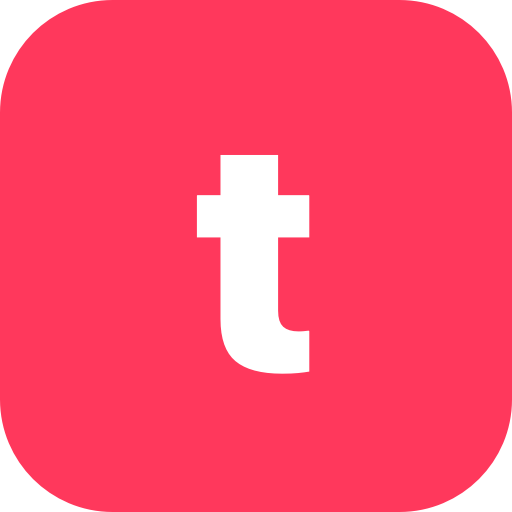
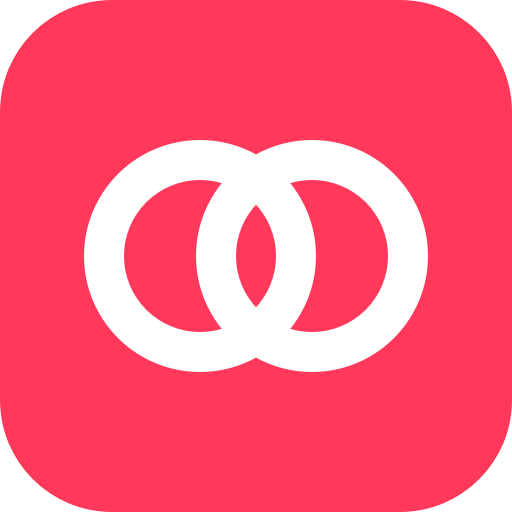
アプリ名を「おあいこ」に変更し、ロゴを追加
- ロゴ: Rausch の角丸四角に重なり合う2つの白い輪 (お互いさま・貸し借りなし)
- favicon、PWA アイコン (192/512/maskable/apple-touch) を作り直し、画面の見出しに Logo コンポーネント
- タイトル・マニフェスト・文書の名前を変更。Service Worker のキャッシュ名を更新して旧アイコンを破棄

Changed region(s): [[0.1562, 0.25, 0.8438, 0.75]]

diff --git a/src/pages/TripPage.tsx b/src/pages/TripPage.tsx
@@ -12,6 +12,7 @@ import { askName } from '../lib/names'
 import { touchRecent } from '../lib/recent'
 import { getStore, isFirebaseConfigured, type TripStore } from '../store'
 import type { Expense, TripData } from '../types'
+import { Logo } from '../components/Logo'
 
 const COLLAPSED_KEY = 'tiede:sidebar-collapsed'
 const loadCollapsed = () => {
@@ -132,7 +133,7 @@ export function TripPage({ tripId }: { tripId: string }) {
   useEffect(() => {
     if (data) {
       touchRecent(tripId, data.trip.name)
-      document.title = `${data.trip.name} - tiede`
+      document.title = `${data.trip.name} - おあいこ`
     }
   }, [tripId, data])
 
@@ -153,7 +154,7 @@ export function TripPage({ tripId }: { tripId: string }) {
     <div className="container">
       <header className="app-header">
         <a href="/" className="logo">
-          tiede
+          <Logo />
         </a>
       </header>
       {node}
@@ -275,7 +276,7 @@ export function TripPage({ tripId }: { tripId: string }) {
       {/* デスクトップの上部見出し。サイドバーの状態に関わらず表示 */}
       <header className="apphead">
         <a href="/" className="logo">
-          tiede
+          <Logo />
         </a>
         <span className="apphead-sep" aria-hidden>
           /

diff --git a/src/components/ErrorBoundary.tsx b/src/components/ErrorBoundary.tsx
@@ -1,4 +1,5 @@
 import { Component, type ReactNode } from 'react'
+import { Logo } from './Logo'
 
 /** 描画中の予期しないエラーで画面が真っ白になるのを防ぐ。データは端末とサーバーに残っている */
 export class ErrorBoundary extends Component<{ children: ReactNode }, { error: Error | null }> {
@@ -14,7 +15,7 @@ export class ErrorBoundary extends Component<{ children: ReactNode }, { error: E
       <div className="container">
         <header className="app-header">
           <a href="/" className="logo">
-            tiede
+            <Logo />
           </a>
         </header>
         <div className="card stack">

diff --git a/src/components/Sidebar.tsx b/src/components/Sidebar.tsx
@@ -1,5 +1,6 @@
 import { ArchiveRestore, ChevronRight, Link2, PanelLeftClose, PanelLeftOpen, Plus, Settings, X } from 'lucide-react'
 import { yen } from '../lib/format'
+import { Logo } from './Logo'
 
 export type CategoryRow = { key: string; name: string; total: number }
 
@@ -50,7 +51,7 @@ export function Sidebar(p: Props) {
       {/* タブレット・スマホの引き出し用 */}
       <div className="sb-head">
         <a href="/" className="logo sb-label">
-          tiede
+          <Logo />
         </a>
         <button className="ghost icon sb-close" onClick={p.onClose} aria-label="閉じる">
           <X size={20} />

diff --git a/src/App.tsx b/src/App.tsx
@@ -1,6 +1,7 @@
 import { useEffect, useState } from 'react'
 import { Home } from './pages/Home'
 import { TripPage } from './pages/TripPage'
+import { Logo } from './components/Logo'
 
 // グループは /t/{id}。ホーム画面に追加したとき、そのページがそのまま開くようにパスで表す
 // (以前の #/t/{id} 形式の共有リンクは読み替える)
@@ -26,7 +27,7 @@ export default function App() {
     <div className="container">
       <header className="app-header center">
         <a href="/" className="logo">
-          tiede
+          <Logo />
         </a>
       </header>
       <Home />

diff --git a/public/sw.js b/public/sw.js
@@ -1,6 +1,6 @@
 // tiede の Service Worker。画面 (HTML/JS/CSS/画像) を端末に保存し、圏外でも起動できるようにする。
 // データ (Firestore) は Firebase SDK が IndexedDB に保持するので、ここでは扱わない。
-const CACHE = 'tiede-v1'
+const CACHE = 'oaiko-v2'
 
 // 初回訪問ではページの読み込みが SW の起動より先に終わり、JS/CSS が保存されない。
 // ページから読み込み済みファイルの一覧を受け取って保存し、次回から圏外でも起動できるようにする

diff --git a/src/components/Logo.tsx b/src/components/Logo.tsx
@@ -1,0 +1,15 @@
+/** おあいこのロゴ (2つの輪 = お互いさま・貸し借りなし) と名前 */
+export function Logo() {
+  return (
+    <span className="brand">
+      <svg viewBox="0 0 64 64" width="22" height="22" aria-hidden="true">
+        <rect width="64" height="64" rx="14" fill="var(--accent)" />
+        <g fill="none" stroke="#fff" strokeWidth="5">
+          <circle cx="25" cy="32" r="12" />
+          <circle cx="39" cy="32" r="12" />
+        </g>
+      </svg>
+      おあいこ
+    </span>
+  )
+}

diff --git a/index.html b/index.html
@@ -10,8 +10,8 @@
     <link rel="manifest" href="/manifest.webmanifest" />
     <link rel="apple-touch-icon" href="/apple-touch-icon.png" />
     <meta name="apple-mobile-web-app-capable" content="yes" />
-    <meta name="apple-mobile-web-app-title" content="tiede" />
-    <title>tiede</title>
+    <meta name="apple-mobile-web-app-title" content="おあいこ" />
+    <title>おあいこ</title>
   </head>
   <body>
     <div id="root"></div>

diff --git a/src/index.css b/src/index.css
@@ -1284,3 +1284,17 @@ body.resizing .layout {
 .app-header.center {
   text-align: center;
 }
+
+/* ロゴ (マーク + 名前) */
+.brand {
+  display: inline-flex;
+  align-items: center;
+  gap: 8px;
+  font-weight: 700;
+  letter-spacing: 0.02em;
+}
+
+.brand svg {
+  flex-shrink: 0;
+  border-radius: 5px;
+}

diff --git a/docs/design/DESIGN.md b/docs/design/DESIGN.md
@@ -1,4 +1,4 @@
-# DESIGN.md — tiede
+# DESIGN.md — おあいこ
 
 このアプリの画面の決まり。見た目のトークンは Airbnb、デスクトップのサイドバーは Airtable の
 `topic-filter-rail`、列の区切り方は Cal.com を参考にした。元資料は
@@ -55,6 +55,11 @@
 | 精算カード | 送金行は薄灰面・角丸12px、金額 22px/700 |
 | メモ | 左に `--border-strong` の線、`--body` 色 |
 
+## ロゴ
+
+- 名前「おあいこ」= お互いさま・貸し借りなし。マークは Rausch の角丸四角 (角丸 14/64) に白い線の2つの輪 (半径12・線幅5、中心間隔14、viewBox 64) が重なる形。
+- 実体: `public/favicon.svg`、PWA アイコン (`public/icon-*.png`, `apple-touch-icon.png`。maskable は輪を78%に縮めて安全領域に収める)、画面内は `src/components/Logo.tsx` (マーク22px + 名前、太字)。
+
 ## アイコン
 
 - [Lucide](https://lucide.dev) (`lucide-react`, ISC ライセンス) の線画アイコンのみ使う。絵文字・記号 (≡ × 🔗 など) や details の既定の三角は使わない。
@@ -74,7 +79,7 @@
 
 **サイドバー (Airtable `topic-filter-rail` を参考):** 幅240px、白地、右に細線。カテゴリを1行ずつ縦に並べ、選択行は `--surface-strong` の面と太字。各行の右に合計額。カテゴリ一覧の下に、精算済みカテゴリをまとめた折りたたみ式の「アーカイブ」。下部に「URLを共有」「メンバー・カテゴリ」の順。
 
-**上部見出しと格納ボタン (1128px 以上):** 画面上端に高さ52pxの見出し (「tiede / グループ名」、グループ名はクリックで変更) を全幅で置き、サイドバーの状態に関わらず表示する。格納ボタンはラベルなしのアイコンのみで、展開時はサイドバー上端の右、格納時 (幅56px) はボタンだけを中央に置く。1128px 未満は見出しと格納ボタンを出さず、上部バーと引き出しを使う。
+**上部見出しと格納ボタン (1128px 以上):** 画面上端に高さ52pxの見出し (「おあいこ / グループ名」、グループ名はクリックで変更) を全幅で置き、サイドバーの状態に関わらず表示する。格納ボタンはラベルなしのアイコンのみで、展開時はサイドバー上端の右、格納時 (幅56px) はボタンだけを中央に置く。1128px 未満は見出しと格納ボタンを出さず、上部バーと引き出しを使う。
 
 **動き:** 格納・展開はサイドバー幅を 0.22 秒で補間し、ラベルはフェードイン。引き出しは横スライドと背景のフェード。ドラッグ中と `prefers-reduced-motion: reduce` では動かさない。
 

diff --git a/CLAUDE.md b/CLAUDE.md
@@ -1,4 +1,4 @@
-# tiede
+# おあいこ (リポジトリ名: tiede)
 
 旅行・飲み会・共同購入など、みんなで立て替えたお金を記録し、誰が誰にいくら払えば精算できるかを計算するウェブアプリ。文言は特定の用途に寄せず汎用的に書く。
 
@@ -49,4 +49,4 @@
 - Firebase プロジェクト `tiede-8eae4` (Firestore: asia-northeast1, Standard)。ルールはデプロイ・検証済み。Hosting 公開済み (https://tiede-8eae4.web.app、`firebase deploy --only hosting`)
 - App Check: reCAPTCHA v3 (Enterprise は課金アカウントが必要なため不採用)。実機ブラウザで検証済み (自動テストのヘッドレス Chromium はボット判定で通らない)。AI Logic は強制済み、Firestore は未強制 (コンソールで検証済みリクエストの割合を確認してから強制する)。開発時は `.env.local` の `VITE_APPCHECK_DEBUG_TOKEN` (コンソール登録済み) を使う
 - 候補: 実機 iPhone で PWA (ホーム画面追加・圏外起動)・Safari の表示を確認する
-- Service Worker のキャッシュ名は固定 (`tiede-v1`)。古いビルドのファイルが溜まるため、大きな変更時は名前を上げる
+- Service Worker のキャッシュ名は固定 (`oaiko-v2`)。古いビルドのファイルが溜まるため、大きな変更時は名前を上げる

diff --git a/README.md b/README.md
@@ -1,4 +1,6 @@
-# tiede
+# おあいこ
+
+リポジトリ名は tiede。
 
 旅行・飲み会・共同購入など、みんなで立て替えたお金を記録し、誰が誰にいくら送金すれば過不足なく精算できるかを計算するウェブアプリ。
 
